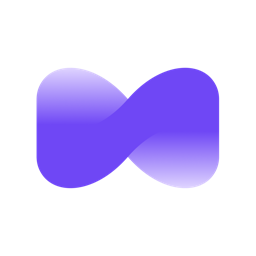
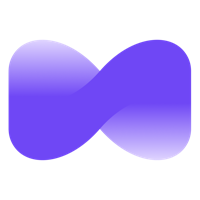
style(cowork): 调整会话详情页头部头像和间距样式
1. 调整HeaderAgentAvatar的图标尺寸从h-4 w-4到h-5 w-5
2. 缩小头像外层容器和内部元素的间距从gap-2到gap-1
3. 移除冗余的标题副标题行，合并展示会话信息

Changed region(s): [[0.03, 0.18, 0.96, 0.81]]

diff --git a/src/renderer/components/cowork/CoworkSessionDetail.tsx b/src/renderer/components/cowork/CoworkSessionDetail.tsx
@@ -281,14 +281,14 @@ const getPermissionPreviewText = (permission: CoworkPermissionRequest): string =
 
 const HeaderAgentAvatar: React.FC<{ agent: HeaderAgent }> = ({ agent }) => {
   if (shouldUseDefaultAgentIcon(agent)) {
-    return <DefaultAgentIcon className="h-4 w-4" />;
+    return <DefaultAgentIcon className="h-5 w-5" />;
   }
 
   return (
     <AgentAvatarIcon
       value={agent.icon}
       className="h-8 w-8"
-      iconClassName="h-4 w-4"
+      iconClassName="h-5 w-5"
       legacyClassName="text-[16px]"
       fallbackText={getAgentDisplayName(agent).trim().slice(0, 1).toUpperCase() || 'A'}
     />
@@ -4012,16 +4012,13 @@ const CoworkSessionDetail: React.FC<CoworkSessionDetailProps> = ({
               {updateBadge}
             </div>
           )} */}
-          <div className="flex min-w-0 items-center gap-2">
-            <span className="flex h-8 w-8 shrink-0 items-center justify-center overflow-hidden rounded-full border border-border/70 bg-transparent leading-none text-foreground dark:border-white/[0.12]">
+          <div className="flex min-w-0 items-center gap-1">
+            <span className="flex h-8 w-8 shrink-0 items-center justify-center overflow-hidden rounded-full bg-transparent leading-none text-foreground">
               <HeaderAgentAvatar agent={headerAgent} />
             </span>
             <div className="min-w-0">
               <div className="truncate text-sm font-medium leading-4 text-foreground max-w-[360px]">
                 {currentSession.source?.kind === CoworkSessionSourceKind.ScheduledTask ? currentSession.source.label || currentSession.title || i18nService.t('coworkNewSession') : headerAgentName}
-              </div>
-              <div className="mt-0.5 truncate text-[12px] leading-4 text-secondary max-w-[360px]">
-                {currentSession.title || i18nService.t('coworkNewSession')}
               </div>
             </div>
           </div>
